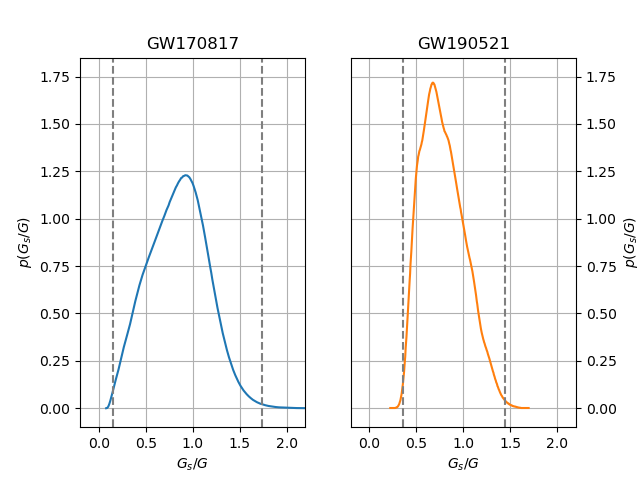
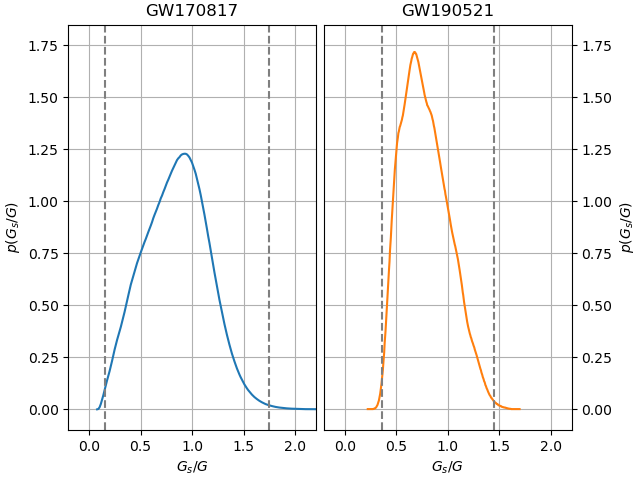
adjust plot2, 3, 4, add plot4.1

diff --git a/plot4.py b/plot4.py
@@ -28,9 +28,10 @@ g, p_g = g/2.5, p_g*2.5
 s = ((g[1:]-g[:-1])*(p_g[1:]+p_g[:-1])).sum()/2
 g_19, p_g_19 = g, p_g/s
 
-def plot(lamdas=np.linspace(0, 42.9*3, 101)):
+def plot17(lamdas=np.linspace(0, 42.9*3, 101)):
     js = np.empty(lamdas.size)
     for i in range(lamdas.size):
+        print(i)
         lamda = lamdas[i]
         if (lamda == 0):
             e = np.zeros(10**8)
@@ -44,35 +45,77 @@ def plot(lamdas=np.linspace(0, 42.9*3, 101)):
         a_17, p_a_17 = (bin_edges[:-1]+bin_edges[1:])/2, hist
         s = ((a_17[1:]-a_17[:-1])*(p_a_17[1:]+p_a_17[:-1])).sum()/2
         a_17, p_a_17 = a_17, p_a_17/s
-        p_a_17[np.where(p_a_17==0)] = 1e-9
         if (lamda == 0):
             e = 0
-            a_19 = g_19-1
-            p_a_19 = p_g_19
         else:
             e = (1+2.5e3/lamda)*np.exp(-2.5e3/lamda)
-            a_19 = -((1-g_19)/(1-g_19*e))
-            p_a_19 = p_g_19*((1-e)/(1+a_19*e)**2)
-        a_i = np.sort_complex(a_19+p_a_19*1j)
-        a_19, p_a_19 = a_i.real, a_i.imag
-        s = ((a_19[1:]-a_19[:-1])*(p_a_19[1:]+p_a_19[:-1])).sum()/2
-        a_19, p_a_19 = a_19, p_a_19/s
-        p_a_19[np.where(p_a_19==0)] = 1e-9
+        alpha = -((1-g_19)/(1-g_19*e))
+        p_alpha = p_g_19*((1-e)/(1+alpha*e)**2)
+        alpha_i = np.sort_complex(alpha+p_alpha*1j)
+        a_19, p_a_19 = alpha_i.real, alpha_i.imag
         from scipy.integrate import simpson
-        a = np.linspace(a_17.min(), a_17.max(), 10001)
+        a = np.linspace(a_17.min(), a_17.max(), 10**7)
         p_17 = np.interp(a, a_17, p_a_17, left=0, right=0)
         p_19 = np.interp(a, a_19, p_a_19, left=0, right=0)
-        kl_17 = simpson(p_17*np.log2(p_17/((p_17+p_19)/2)), a)
-        a = np.linspace(a_19.min(), a_19.max(), 10001)
+        f = p_17*np.log2(p_17/((p_17+p_19)/2))
+        f[np.isnan(f)] = 0
+        kl_17 = simpson(f, a)
+        a = np.linspace(a_19.min(), a_19.max(), 10**7)
         p_19 = np.interp(a, a_19, p_a_19, left=0, right=0)
         p_17 = np.interp(a, a_17, p_a_17, left=0, right=0)
-        kl_19 = simpson(p_19*np.log2(p_19/((p_19+p_17)/2)), a)
+        f = p_19*np.log2(p_19/((p_19+p_17)/2))
+        f[np.isnan(f)] = 0
+        kl_19 = simpson(f, a)
         js[i] = (kl_17+kl_19)/2
     plt.plot(lamdas, js)
 
-plot()
-plot(lamdas=np.linspace(2.5e3/3, 2.5e3*3, 101))
-plt.ylim() 
+def plot19(lamdas=np.linspace(2.5e3/3, 2.5e3*3, 101)):
+    js = np.empty(lamdas.size)
+    for i in range(lamdas.size):
+        print(i)
+        lamda = lamdas[i]
+        if (lamda == 0):
+            e = np.zeros(10**8)
+            a_17 = g_17-1
+        else:
+            e = (1+d_l/lamda)*np.exp(-d_l/lamda)
+            a_17 = -((1-g_17)/(1-g_17*e))
+        a_17 = a_17[np.where(abs(a_17+1)<=0.5)]
+        bins = int((a_17.max()-a_17.min())*200)
+        hist, bin_edges = np.histogram(a_17, bins=bins, density=True)
+        a_17, p_a_17 = (bin_edges[:-1]+bin_edges[1:])/2, hist
+        s = ((a_17[1:]-a_17[:-1])*(p_a_17[1:]+p_a_17[:-1])).sum()/2
+        a_17, p_a_17 = a_17, p_a_17/s
+        if (lamda == 0):
+            e = 0
+        else:
+            e = (1+2.5e3/lamda)*np.exp(-2.5e3/lamda)
+        alpha = -((1-g_19)/(1-g_19*e))
+        p_alpha = p_g_19*((1-e)/(1+alpha*e)**2)
+        where = np.where(abs(a_17)<=10)
+        alpha_i = np.sort_complex(alpha[where]+p_alpha[where]*1j)
+        a_19, p_a_19 = alpha_i.real, alpha_i.imag
+        s = ((a_19[1:]-a_19[:-1])*(p_a_19[1:]+p_a_19[:-1])).sum()/2
+        a_19, p_a_19 = a_19, p_a_19/s
+        from scipy.integrate import simpson
+        a = np.linspace(a_17.min(), a_17.max(), 10**7)
+        p_17 = np.interp(a, a_17, p_a_17, left=0, right=0)
+        p_19 = np.interp(a, a_19, p_a_19, left=0, right=0)
+        f = p_17*np.log2(p_17/((p_17+p_19)/2))
+        f[np.isnan(f)] = 0
+        kl_17 = simpson(f, a)
+        a = np.linspace(a_19.min(), a_19.max(), 10**7)
+        p_19 = np.interp(a, a_19, p_a_19, left=0, right=0)
+        p_17 = np.interp(a, a_17, p_a_17, left=0, right=0)
+        f = p_19*np.log2(p_19/((p_19+p_17)/2))
+        f[np.isnan(f)] = 0
+        kl_19 = simpson(f, a)
+        js[i] = (kl_17+kl_19)/2
+    plt.plot(lamdas, js)
+
+plot17()
+plot19()
+plt.ylim()
 plt.title('GW170817 vs GW190521')
 plt.xlabel('$\\lambda$(Mpc)')
 plt.ylabel('JS divergence')

diff --git a/plot4.1.py b/plot4.1.py
@@ -1,0 +1,77 @@
+import h5py
+import numpy as np
+import matplotlib as mpl
+import matplotlib.image as mpimg
+import matplotlib.pyplot as plt
+
+f = h5py.File('GW170817_GWTC-1.hdf5','r')
+dset = f['IMRPhenomPv2NRT_lowSpin_posterior']
+d_l = np.sort(dset['luminosity_distance_Mpc'])
+sample = (np.random.choice(d_l, size=10**8)
+         /np.random.normal(loc=42.9, scale=3.2, size=10**8))**2
+hist, bin_edges = np.histogram(sample, bins=200, density=True)
+g, p_g = (bin_edges[:-1]+bin_edges[1:])/2, hist
+s = ((g[1:]-g[:-1])*(p_g[1:]+p_g[:-1])).sum()/2
+g_17, p_g_17 = g, p_g/s
+
+img = mpimg.imread('d_l_GW190521.jpg')
+sample = []
+for x in range(500):
+    ys = []
+    for y in range(780):
+        if (max(abs(img[y,x,0]-31),
+                abs(img[y,x,1]-119),
+                abs(img[y,x,2]-180)) <= 32):
+            ys.append(y)
+    if (ys != []):
+        sample.append([x, np.array(ys).mean()])
+g, p_g = np.array(sample)[:,0], np.array(sample)[:,1]
+g, p_g = (g-983)/(240-983)*(2-10)+10, (p_g-9)/(699-9)*(0.0-0.7)+0.7
+g, p_g = g/2.5, p_g*2.5
+s = ((g[1:]-g[:-1])*(p_g[1:]+p_g[:-1])).sum()/2
+g_19, p_g_19 = g, p_g/s
+
+def plot(lamdas=np.linspace(0, 3, 101)):
+    js = np.empty(lamdas.size)
+    for i in range(lamdas.size):
+        print(i)
+        lamda = lamdas[i]
+        if (lamda == 0):
+            e = 0
+        else:
+            e = (1+1/lamda)*np.exp(-1/lamda)
+        alpha = -((1-g_17)/(1-g_17*e))
+        p_alpha = p_g_17*((1-e)/(1+alpha*e)**2)
+        alpha_i = np.sort_complex(alpha+p_alpha*1j)
+        a_17, p_a_17 = alpha_i.real, alpha_i.imag
+        s = ((a_17[1:]-a_17[:-1])*(p_a_17[1:]+p_a_17[:-1])).sum()/2
+        a_17, p_a_17 = a_17, p_a_17/s
+        alpha = -((1-g_19)/(1-g_19*e))
+        p_alpha = p_g_19*((1-e)/(1+alpha*e)**2)
+        alpha_i = np.sort_complex(alpha+p_alpha*1j)
+        a_19, p_a_19 = alpha_i.real, alpha_i.imag
+        s = ((a_19[1:]-a_19[:-1])*(p_a_19[1:]+p_a_19[:-1])).sum()/2
+        a_19, p_a_19 = a_19, p_a_19/s
+        from scipy.integrate import simpson
+        a = np.linspace(a_17.min(), a_17.max(), 10**7)
+        p_17 = np.interp(a, a_17, p_a_17, left=0, right=0)
+        p_19 = np.interp(a, a_19, p_a_19, left=0, right=0)
+        f = p_17*np.log2(p_17/((p_17+p_19)/2))
+        f[np.isnan(f)] = 0
+        kl_17 = simpson(f, a)
+        a = np.linspace(a_19.min(), a_19.max(), 10**7)
+        p_19 = np.interp(a, a_19, p_a_19, left=0, right=0)
+        p_17 = np.interp(a, a_17, p_a_17, left=0, right=0)
+        f = p_19*np.log2(p_19/((p_19+p_17)/2))
+        f[np.isnan(f)] = 0
+        kl_19 = simpson(f, a)
+        js[i] = (kl_17+kl_19)/2
+    plt.plot(lamdas, js)
+
+plot()
+plt.ylim()
+plt.title('GW170817 vs GW190521')
+plt.xlabel('$\\lambda/D_L$')
+plt.ylabel('JS divergence')
+plt.grid()
+plt.savefig('plot4_1')

diff --git a/plot2.1.py b/plot2.1.py
@@ -30,14 +30,14 @@ def plot_17(lamdas=np.linspace(0, 3, 101),
         p_alpha = p_g*((1-e)/(1+alpha*e)**2)
         alpha_i = np.sort_complex(alpha+p_alpha*1j)
         p_alphas[i] = np.interp(alphas, alpha_i.real, alpha_i.imag)
-    return axs[0].contourf(alphas, lamdas, p_alphas, levels=101)
+    return p_alphas.max(), axs[0].contourf(alphas, lamdas, p_alphas, levels=101)
 
-qcs_17 = plot_17()
+max_17, qcs_17 = plot_17()
 axs[0].set_title('GW170817')
 axs[0].set_xlabel('$\\alpha$')
-axs[0].set_ylabel('$\\lambda/D_L$')
-axs[0].yaxis.set_label_position('left')
-axs[0].yaxis.tick_left()
+axs[0].set_ylabel('$\\lambda/D_{L,17}$')
+axs[0].yaxis.set_label_position('right')
+axs[0].yaxis.tick_right()
 
 img = mpimg.imread('d_l_GW190521.jpg')
 sample = []
@@ -70,15 +70,17 @@ def plot_19(lamdas=np.linspace(0, 3, 101),
         p_alpha = p_g*((1-e)/(1+alpha*e)**2)
         alpha_i = np.sort_complex(alpha+p_alpha*1j)
         p_alphas[i] = np.interp(alphas, alpha_i.real, alpha_i.imag)
-    return axs[1].contourf(alphas, lamdas, p_alphas, levels=101)
+    return p_alphas.max(), axs[1].contourf(alphas, lamdas, p_alphas, levels=101)
 
-qcs_19 = plot_19()
+max_19, qcs_19 = plot_19()
 axs[1].set_title('GW190521')
 axs[1].set_xlabel('$\\alpha$')
-axs[1].set_ylabel('$\\lambda/D_L$')
-axs[1].yaxis.set_label_position('right')
-axs[1].yaxis.tick_right()
+axs[1].set_ylabel('$\\lambda/D_{L,19}$')
+axs[1].yaxis.set_label_position('left')
+axs[1].yaxis.tick_left()
 
-fig.colorbar(qcs_17, ax=axs[0], location='right', label='$p(\\alpha)$')
-fig.colorbar(qcs_19, ax=axs[1], location='left' , label='$p(\\alpha)$')
+fig.colorbar(qcs_17, ax=axs[0], location='left' , label='$p(\\alpha)$',
+             format='%3.1f')
+fig.colorbar(qcs_19, ax=axs[1], location='right', label='$p(\\alpha)$',
+             format='%3.1f')
 fig.savefig('plot2_1')

diff --git a/plot3.1.py b/plot3.1.py
@@ -44,7 +44,10 @@ def plot(ax,
         else:
             e = (1+d_l/lamda)*np.exp(-d_l/lamda)
             a_17 = -((1-g_17)/(1-g_17*e))
-        a_17 = a_17[np.where(abs(a_17)<=10)]
+        if (ax == 0):
+            a_17 = a_17[np.where(abs(a_17)<=10)]
+        if (ax == 1):
+            a_17 = a_17[np.where(abs(a_17+1)<=0.5)]
         bins = int((a_17.max()-a_17.min())*200)
         hist, bin_edges = np.histogram(a_17, bins=bins, density=True)
         a_17, p_a_17 = (bin_edges[:-1]+bin_edges[1:])/2, hist
@@ -52,22 +55,18 @@ def plot(ax,
         a_17, p_a_17 = a_17, p_a_17/s
         if (lamda == 0):
             e = 0
-            a_19 = g_19-1
-            p_a_19 = p_g_19
         else:
             e = (1+2.5e3/lamda)*np.exp(-2.5e3/lamda)
-            a_19 = -((1-g_19)/(1-g_19*e))
-            p_a_19 = p_g_19*((1-e)/(1+a_19*e)**2)
-        a_i = np.sort_complex(a_19+p_a_19*1j)
-        a_19, p_a_19 = a_i.real, a_i.imag
-        s = ((a_19[1:]-a_19[:-1])*(p_a_19[1:]+p_a_19[:-1])).sum()/2
-        a_19, p_a_19 = a_19, p_a_19/s
+        alpha = -((1-g_19)/(1-g_19*e))
+        p_alpha = p_g_19*((1-e)/(1+alpha*e)**2)
+        alpha_i = np.sort_complex(alpha+p_alpha*1j)
+        a_19, p_a_19 = alpha_i.real, alpha_i.imag
         p_alphas[i] = (np.interp(alphas, a_17, p_a_17)
                       +np.interp(alphas, a_19, p_a_19))/2
     if (ax == 0):
         extend = 'neither'
     if (ax == 1):
-        p_alphas[p_alphas>5] = 5
+        p_alphas[np.where(p_alphas>5)] = 5
         extend = 'max'
     return axs[ax].contourf(alphas, lamdas, p_alphas,
                             levels=levels, cmap=cmap, extend=extend)

diff --git a/plot1.py b/plot1.py
@@ -3,7 +3,7 @@ import numpy as np
 import matplotlib.image as mpimg
 import matplotlib.pyplot as plt
 
-fig, axs = plt.subplots(ncols=2)
+fig, axs = plt.subplots(ncols=2, layout='constrained')
 
 f = h5py.File('GW170817_GWTC-1.hdf5','r')
 dset = f['IMRPhenomPv2NRT_lowSpin_posterior']
